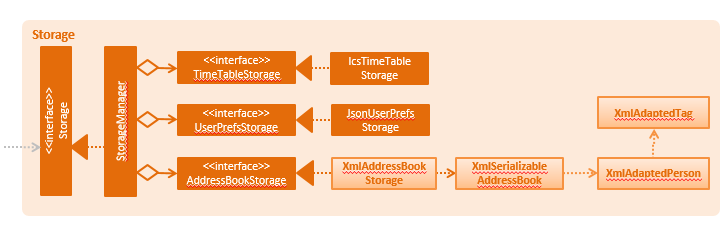
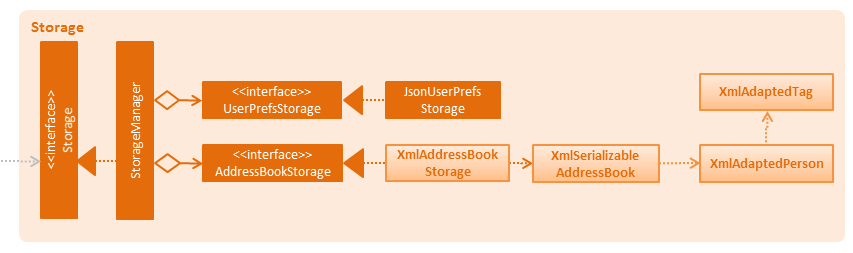
Rebuild pages at 0c8bc81bf2a402cd146f1380014f214538ded003

diff --git a/HelpWindow.html b/HelpWindow.html
@@ -632,10 +632,11 @@ Format: <code>clear</code></p>
 <div class="sect2">
 <h3 id="import-timetable-from-a-file-code-import-code-code-i-code"><a class="link" href="#import-timetable-from-a-file-code-import-code-code-i-code">3.14. Import Timetable from a file : <code>import</code> (<code>i</code>)</a></h3>
 <div class="paragraph">
-<p>Imports a timetable from file. Currently only support (.ics) files exported from NUSMODS.<br></p>
+<p>Imports a timetable from file for the current user. If the location is not specified, the default location will be used (<code>.\import_export\import.ics</code>)<br>
+Currently only supports (.ics) files exported from NUSMODS.<br></p>
 </div>
 <div class="paragraph">
-<p>Format: <code>import INDEX file/FILE_LOCATION</code></p>
+<p>Format: <code>import [FILE_LOCATION]</code><br></p>
 </div>
 <div class="paragraph">
 <p>Examples:</p>
@@ -643,8 +644,12 @@ Format: <code>clear</code></p>
 <div class="ulist">
 <ul>
 <li>
-<p>To import the timetable <code>nusmods_calendar.ics</code> for the person at index <code>1</code>:<br>
-<code>import 1 file/C:\Users\happycat96\Downloads\nusmods_calendar.ics</code><br></p>
+<p>To import the timetable at <code>C:\import_export\import.ics</code>:<br>
+<code>import C:\import_export\import.ics</code><br></p>
+</li>
+<li>
+<p>To import the timetable at the default location <code>.\import_export\import.ics</code>:<br>
+<code>import</code><br></p>
 </li>
 </ul>
 </div>
@@ -669,10 +674,10 @@ You can import your NUSMODS timetable as a .ics file, as shown in the picture be
 <div class="sect2">
 <h3 id="export-timetable-to-a-file-code-export-code-code-e-code"><a class="link" href="#export-timetable-to-a-file-code-export-code-code-e-code">3.15. Export Timetable to a file : <code>export</code> (<code>e</code>)</a></h3>
 <div class="paragraph">
-<p>Imports a timetable to .ics file.<br></p>
+<p>Exports the currently-displayed timetable to the specified .ics file. If the location is not specified, the default location will be used (<code>.\import_export\export.ics</code>)<br></p>
 </div>
 <div class="paragraph">
-<p>Format: <code>export INDEX file/FILE_LOCATION</code></p>
+<p>Format: <code>export [FILE_LOCATION]</code></p>
 </div>
 <div class="paragraph">
 <p>Examples:</p>
@@ -680,8 +685,12 @@ You can import your NUSMODS timetable as a .ics file, as shown in the picture be
 <div class="ulist">
 <ul>
 <li>
-<p>To export the timetable for the person at index <code>1</code> to the file <code>export.ics</code>:<br>
-<code>export 1 file/C:\Users\happycat96\Downloads\export.ics</code><br></p>
+<p>To export the currently displayed timetable to the location <code>C:\import_export\export.ics</code>:<br>
+<code>export C:\import_export\export.ics</code><br></p>
+</li>
+<li>
+<p>To export the currently displayed timetable to the default location <code>.\import_export\export.ics</code>:<br>
+<code>export C:\import_export\export.ics</code><br></p>
 </li>
 </ul>
 </div>
@@ -769,9 +778,12 @@ e.g. <code>addtime mon 10-12</code></p>
 e.g. <code>deletetime tue 12-14</code></p>
 </li>
 <li>
-<p><strong>Import Timetable from a file</strong> : <code>import INDEX file/FILE_LOCATION</code></p>
+<p><strong>Import Timetable from a file</strong> : <code>import [FILE_LOCATION]</code></p>
+</li>
+<li>
+<p><strong>Export Timetable to a file</strong> : <code>export [FILE_LOCATION]</code></p>
 </li>
 </ul>
 </div>
 </div>
-</div></div><div id="footer"><div class="container"><div id="footer-text">Last updated 2018-10-30 13:25:53 UTC</div></div></div></body></html>
+</div></div><div id="footer"><div class="container"><div id="footer-text">Last updated 2018-10-30 14:42:25 UTC</div></div></div></body></html>

diff --git a/UserGuide.html b/UserGuide.html
@@ -632,10 +632,11 @@ Format: <code>clear</code></p>
 <div class="sect2">
 <h3 id="import-timetable-from-a-file-code-import-code-code-i-code"><a class="link" href="#import-timetable-from-a-file-code-import-code-code-i-code">3.14. Import Timetable from a file : <code>import</code> (<code>i</code>)</a></h3>
 <div class="paragraph">
-<p>Imports a timetable from file. Currently only support (.ics) files exported from NUSMODS.<br></p>
+<p>Imports a timetable from file for the current user. If the location is not specified, the default location will be used (<code>.\import_export\import.ics</code>)<br>
+Currently only supports (.ics) files exported from NUSMODS.<br></p>
 </div>
 <div class="paragraph">
-<p>Format: <code>import INDEX file/FILE_LOCATION</code></p>
+<p>Format: <code>import [FILE_LOCATION]</code><br></p>
 </div>
 <div class="paragraph">
 <p>Examples:</p>
@@ -643,8 +644,12 @@ Format: <code>clear</code></p>
 <div class="ulist">
 <ul>
 <li>
-<p>To import the timetable <code>nusmods_calendar.ics</code> for the person at index <code>1</code>:<br>
-<code>import 1 file/C:\Users\happycat96\Downloads\nusmods_calendar.ics</code><br></p>
+<p>To import the timetable at <code>C:\import_export\import.ics</code>:<br>
+<code>import C:\import_export\import.ics</code><br></p>
+</li>
+<li>
+<p>To import the timetable at the default location <code>.\import_export\import.ics</code>:<br>
+<code>import</code><br></p>
 </li>
 </ul>
 </div>
@@ -669,10 +674,10 @@ You can import your NUSMODS timetable as a .ics file, as shown in the picture be
 <div class="sect2">
 <h3 id="export-timetable-to-a-file-code-export-code-code-e-code"><a class="link" href="#export-timetable-to-a-file-code-export-code-code-e-code">3.15. Export Timetable to a file : <code>export</code> (<code>e</code>)</a></h3>
 <div class="paragraph">
-<p>Imports a timetable to .ics file.<br></p>
+<p>Exports the currently-displayed timetable to the specified .ics file. If the location is not specified, the default location will be used (<code>.\import_export\export.ics</code>)<br></p>
 </div>
 <div class="paragraph">
-<p>Format: <code>export INDEX file/FILE_LOCATION</code></p>
+<p>Format: <code>export [FILE_LOCATION]</code></p>
 </div>
 <div class="paragraph">
 <p>Examples:</p>
@@ -680,8 +685,12 @@ You can import your NUSMODS timetable as a .ics file, as shown in the picture be
 <div class="ulist">
 <ul>
 <li>
-<p>To export the timetable for the person at index <code>1</code> to the file <code>export.ics</code>:<br>
-<code>export 1 file/C:\Users\happycat96\Downloads\export.ics</code><br></p>
+<p>To export the currently displayed timetable to the location <code>C:\import_export\export.ics</code>:<br>
+<code>export C:\import_export\export.ics</code><br></p>
+</li>
+<li>
+<p>To export the currently displayed timetable to the default location <code>.\import_export\export.ics</code>:<br>
+<code>export C:\import_export\export.ics</code><br></p>
 </li>
 </ul>
 </div>
@@ -769,9 +778,12 @@ e.g. <code>addtime mon 10-12</code></p>
 e.g. <code>deletetime tue 12-14</code></p>
 </li>
 <li>
-<p><strong>Import Timetable from a file</strong> : <code>import INDEX file/FILE_LOCATION</code></p>
+<p><strong>Import Timetable from a file</strong> : <code>import [FILE_LOCATION]</code></p>
+</li>
+<li>
+<p><strong>Export Timetable to a file</strong> : <code>export [FILE_LOCATION]</code></p>
 </li>
 </ul>
 </div>
 </div>
-</div></div><div id="footer"><div class="container"><div id="footer-text">Last updated 2018-10-30 13:25:53 UTC</div></div></div></body></html>
+</div></div><div id="footer"><div class="container"><div id="footer-text">Last updated 2018-10-30 14:42:25 UTC</div></div></div></body></html>

diff --git a/DeveloperGuide.html b/DeveloperGuide.html
@@ -32,7 +32,7 @@
 <ul class="sectlevel2">
 <li><a href="#undo-redo-feature">3.1. Undo/Redo feature</a></li>
 <li><a href="#timetable-feature">3.2. Timetable feature</a></li>
-<li><a href="#import-timetable-feature">3.3. Import timetable feature</a></li>
+<li><a href="#import-timetable-and-export-timetable-feature">3.3. Import timetable and Export timetable feature</a></li>
 <li><a href="#security-implementation">3.4. Security Implementation</a></li>
 <li><a href="#proposed-data-encryption">3.5. [Proposed] Data Encryption</a></li>
 <li><a href="#logging">3.6. Logging</a></li>
@@ -610,12 +610,6 @@ the application to do user-specific tasks.</p>
 <li>
 <p>can save the Address Book data in xml format and read it back.</p>
 </li>
-<li>
-<p>can save the <code>TimeTable</code> Objects in ics format and read it back.</p>
-</li>
-<li>
-<p>can read <code>TimeTable</code> data from a user-specified file in ics format.</p>
-</li>
 </ul>
 </div>
 </div>
@@ -951,7 +945,7 @@ If the <code>currentStatePointer</code> is at index <code>addressBookStateList.s
 </div>
 </div>
 <div class="sect2">
-<h3 id="import-timetable-feature"><a class="link" href="#import-timetable-feature">3.3. Import timetable feature</a></h3>
+<h3 id="import-timetable-and-export-timetable-feature"><a class="link" href="#import-timetable-and-export-timetable-feature">3.3. Import timetable and Export timetable feature</a></h3>
 <div class="sect3">
 <h4 id="current-implementation-3"><a class="link" href="#current-implementation-3">3.3.1. Current implementation</a></h4>
 <div class="paragraph">
@@ -980,10 +974,9 @@ If the <code>currentStatePointer</code> is at index <code>addressBookStateList.s
 <p>&#160;</p>
 </div>
 <div class="paragraph">
-<p>The <code>IcsUtil</code> class implements three key utility methods for handling .ics files:<br>
-1. <code>IcsUtil#getTimeTableFromFile()</code> - to obtain a <code>TimeTable</code>; accepts the <code>filePath</code> of the .ics file as parameter<br>
-2.<br>
-3.<br></p>
+<p>The <code>IcsUtil</code> class implements two key utility methods for handling .ics files:<br>
+1. <code>IcsUtil#readTimeTableFromFile()</code> - to read an <code>Optional&lt;TimeTable&gt;</code> from an .ics file; accepts the <code>filePath</code> of the .ics file as parameter<br>
+2. <code>IcsUtil#saveTimeTableToFile()</code> - to write a <code>TimeTable</code> to disk; accepts the <code>TimeTable</code> and <code>filePath</code> of the .ics file as parameter<br></p>
 </div>
 </div>
 <div class="sect4">
@@ -1017,10 +1010,10 @@ If the <code>currentStatePointer</code> is at index <code>addressBookStateList.s
 <div class="ulist">
 <ul>
 <li>
-<p>Pros: Better follows Single Responsibility Principle: classes that concerns storage are in the storage subsystem.</p>
+<p>Pros: Classes that have to do with IO are in the storage subsystem.</p>
 </li>
 <li>
-<p>Cons: Current implementation favors 'permanent' files on the hard disk: Compared to the 'preferences.json' and 'AddressBook.xml' files, the .ics timetable file is single-use, and can have varying filePaths specified by user.</p>
+<p>Cons: Current implementation favors 'permanent' file storage, not on-demand IO (as in the import and export command).</p>
 </li>
 </ul>
 </div>
@@ -1940,4 +1933,4 @@ Expected: Similar to previous.</p>
 </div>
 </div>
 </div>
-</div></div><div id="footer"><div class="container"><div id="footer-text">Last updated 2018-10-30 13:25:53 UTC</div></div></div></body></html>
+</div></div><div id="footer"><div class="container"><div id="footer-text">Last updated 2018-10-30 14:42:25 UTC</div></div></div></body></html>

diff --git a/team/bennchong.html b/team/bennchong.html
@@ -451,4 +451,4 @@ If the <code>currentStatePointer</code> is at index <code>addressBookStateList.s
 <p><em>{Optionally, you may include other projects in your portfolio.}</em></p>
 </div>
 </div>
-</div></div><div id="footer"><div class="container"><div id="footer-text">Last updated 2018-10-30 13:25:53 UTC</div></div></div></body></html>
+</div></div><div id="footer"><div class="container"><div id="footer-text">Last updated 2018-10-30 14:42:25 UTC</div></div></div></body></html>

diff --git a/team/johndoe.html b/team/johndoe.html
@@ -453,4 +453,4 @@ If the <code>currentStatePointer</code> is at index <code>addressBookStateList.s
 <p><em>{Optionally, you may include other projects in your portfolio.}</em></p>
 </div>
 </div>
-</div></div><div id="footer"><div class="container"><div id="footer-text">Last updated 2018-10-30 13:25:53 UTC</div></div></div></body></html>
+</div></div><div id="footer"><div class="container"><div id="footer-text">Last updated 2018-10-30 14:42:25 UTC</div></div></div></body></html>

diff --git a/ContactUs.html b/ContactUs.html
@@ -12,4 +12,4 @@
 <p><strong>Email us</strong> : You can also reach us at <code>tehnf [at] u.nus.edu</code></p>
 </li>
 </ul>
-</div></div><div id="footer"><div class="container"><div id="footer-text">Last updated 2018-10-30 13:25:53 UTC</div></div></div></body></html>
+</div></div><div id="footer"><div class="container"><div id="footer-text">Last updated 2018-10-30 14:42:25 UTC</div></div></div></body></html>

diff --git a/LearningOutcomes.html b/LearningOutcomes.html
@@ -542,4 +542,4 @@ class gives some examples of how to use <em>Equivalence Partitions</em>, <em>Bou
 </div>
 </div>
 </div>
-</div></div><div id="footer"><div class="container"><div id="footer-text">Last updated 2018-10-30 13:25:53 UTC</div></div></div></body></html>
+</div></div><div id="footer"><div class="container"><div id="footer-text">Last updated 2018-10-30 14:42:25 UTC</div></div></div></body></html>

diff --git a/UsingGradle.html b/UsingGradle.html
@@ -255,4 +255,4 @@ See <code>build.gradle</code> &#8594; <code>allprojects</code> &#8594; <code>dep
 </ul>
 </div>
 </div>
-</div></div><div id="footer"><div class="container"><div id="footer-text">Last updated 2018-10-30 13:25:53 UTC</div></div></div></body></html>
+</div></div><div id="footer"><div class="container"><div id="footer-text">Last updated 2018-10-30 14:42:25 UTC</div></div></div></body></html>

diff --git a/UsingNetlify.html b/UsingNetlify.html
@@ -123,4 +123,4 @@ The publish directory is the directory in which the built HTML documentation res
 </ol>
 </div>
 </div>
-</div></div><div id="footer"><div class="container"><div id="footer-text">Last updated 2018-10-30 13:25:53 UTC</div></div></div></body></html>
+</div></div><div id="footer"><div class="container"><div id="footer-text">Last updated 2018-10-30 14:42:25 UTC</div></div></div></body></html>

diff --git a/UsingCoveralls.html b/UsingCoveralls.html
@@ -96,4 +96,4 @@ If you have not set up Travis CI, see <a href="UsingTravis.html">UsingTravis.ado
 </ol>
 </div>
 </div>
-</div></div><div id="footer"><div class="container"><div id="footer-text">Last updated 2018-10-30 13:25:53 UTC</div></div></div></body></html>
+</div></div><div id="footer"><div class="container"><div id="footer-text">Last updated 2018-10-30 14:42:25 UTC</div></div></div></body></html>

diff --git a/UsingTravis.html b/UsingTravis.html
@@ -280,4 +280,4 @@ Suggested change: Remove the codacy badge from <code>README</code>.</p>
 </div>
 </div>
 </div>
-</div></div><div id="footer"><div class="container"><div id="footer-text">Last updated 2018-10-30 13:25:53 UTC</div></div></div></body></html>
+</div></div><div id="footer"><div class="container"><div id="footer-text">Last updated 2018-10-30 14:42:25 UTC</div></div></div></body></html>

diff --git a/UsingCheckstyle.html b/UsingCheckstyle.html
@@ -91,4 +91,4 @@ Restart the IDE to complete the installation.</p>
 </ul>
 </div>
 </div>
-</div></div><div id="footer"><div class="container"><div id="footer-text">Last updated 2018-10-30 13:25:53 UTC</div></div></div></body></html>
+</div></div><div id="footer"><div class="container"><div id="footer-text">Last updated 2018-10-30 14:42:25 UTC</div></div></div></body></html>
